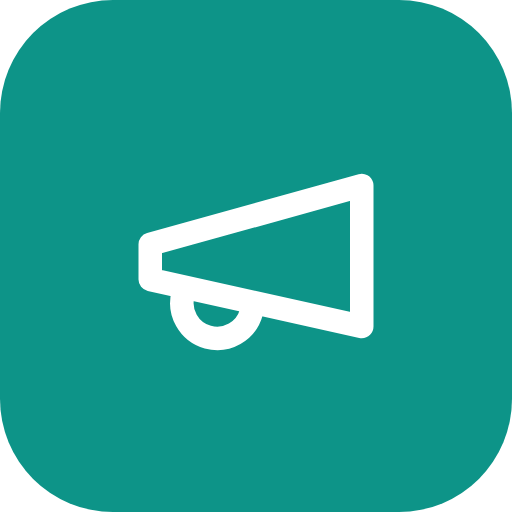
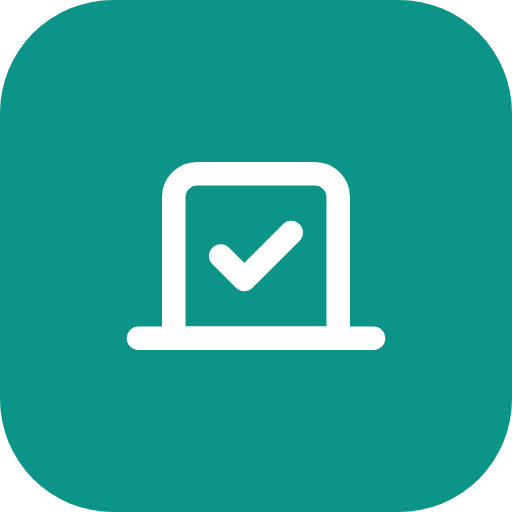
feat: 서비스명을 '재선거'로 변경하고 아이콘을 선거(투표) 아이콘으로 교체
- 서비스명 '광장' → '재선거': 메타 title, manifest(name/short_name),
  헤더 로고, 회원가입·로그인·온보딩·오프라인 문구
- 헤더 로고 아이콘 Megaphone → Vote(투표함+체크)
- PWA 아이콘(icon-192/512.png) 투표함 아이콘으로 재생성(gen-icons.mjs)
- favicon: src/app/icon.svg 신설, 기존 favicon.ico 제거
- 서비스워커 캐시명 reelection-v2로 변경(옛 PWA 캐시 무효화)

Changed region(s): [[0.25, 0.3125, 0.75, 0.6875]]

diff --git a/src/components/app-shell.tsx b/src/components/app-shell.tsx
@@ -7,7 +7,7 @@ import {
   Calendar,
   User,
   PenLine,
-  Megaphone,
+  Vote,
   Map as MapIcon,
   HeartHandshake,
   ShieldAlert,
@@ -57,9 +57,9 @@ export function AppShell({
       <aside className="fixed inset-y-0 left-0 z-30 hidden w-60 flex-col border-r border-border bg-background px-3 py-5 lg:flex">
         <Link href="/" className="mb-6 flex items-center gap-2 px-2">
           <span className="flex size-9 items-center justify-center rounded-md bg-primary text-primary-foreground">
-            <Megaphone className="size-5" />
+            <Vote className="size-5" />
           </span>
-          <span className="text-lg font-bold tracking-tight">광장</span>
+          <span className="text-lg font-bold tracking-tight">재선거</span>
         </Link>
 
         <nav className="flex flex-1 flex-col gap-1">
@@ -121,9 +121,9 @@ export function AppShell({
       <header className="sticky top-0 z-30 flex h-14 items-center justify-between border-b border-border bg-background/90 px-4 backdrop-blur lg:hidden">
         <Link href="/" className="flex items-center gap-2">
           <span className="flex size-8 items-center justify-center rounded-md bg-primary text-primary-foreground">
-            <Megaphone className="size-4" />
+            <Vote className="size-4" />
           </span>
-          <span className="text-base font-bold tracking-tight">광장</span>
+          <span className="text-base font-bold tracking-tight">재선거</span>
         </Link>
         <div className="flex items-center gap-1">
           <ThemeToggle />

diff --git a/src/app/onboarding/page.tsx b/src/app/onboarding/page.tsx
@@ -27,7 +27,7 @@ export default async function OnboardingPage() {
         <CardHeader>
           <CardTitle className="text-xl">닉네임 설정</CardTitle>
           <CardDescription>
-            광장에서 사용할 가명을 정해주세요. 실명 대신 닉네임만 노출됩니다.
+            재선거에서 사용할 가명을 정해주세요. 실명 대신 닉네임만 노출됩니다.
           </CardDescription>
         </CardHeader>
         <CardContent>

diff --git a/src/app/(auth)/login/page.tsx b/src/app/(auth)/login/page.tsx
@@ -21,7 +21,7 @@ export default async function LoginPage({
       <Card>
         <CardHeader>
           <CardTitle className="text-xl">로그인</CardTitle>
-          <CardDescription>광장에 다시 오신 것을 환영합니다.</CardDescription>
+          <CardDescription>재선거에 다시 오신 것을 환영합니다.</CardDescription>
         </CardHeader>
         <CardContent className="space-y-5">
           <AuthForm mode="login" next={next} />

diff --git a/src/app/(auth)/signup/page.tsx b/src/app/(auth)/signup/page.tsx
@@ -21,7 +21,7 @@ export default async function SignupPage({
       <Card>
         <CardHeader>
           <CardTitle className="text-xl">회원가입</CardTitle>
-          <CardDescription>이메일로 광장 계정을 만드세요.</CardDescription>
+          <CardDescription>이메일로 재선거 계정을 만드세요.</CardDescription>
         </CardHeader>
         <CardContent className="space-y-5">
           <AuthForm mode="signup" next={next} />

diff --git a/src/app/manifest.ts b/src/app/manifest.ts
@@ -2,8 +2,8 @@ import type { MetadataRoute } from "next";
 
 export default function manifest(): MetadataRoute.Manifest {
   return {
-    name: "광장 — 집회·시위 운영 플랫폼",
-    short_name: "광장",
+    name: "재선거 — 집회·시위 운영 플랫폼",
+    short_name: "재선거",
     description: "집회·시위를 기록하고 운영하는 공간",
     start_url: "/",
     display: "standalone",

diff --git a/src/app/layout.tsx b/src/app/layout.tsx
@@ -8,7 +8,7 @@ import { ServiceWorkerRegister } from "@/components/sw-register";
 import { getSessionUser } from "@/lib/auth";
 
 export const metadata: Metadata = {
-  title: "광장 — 집회·시위 운영 플랫폼",
+  title: "재선거 — 집회·시위 운영 플랫폼",
   description:
     "집회·시위를 기록하고 운영하는 공간. 글·사진·영상 공유, 현장 지원, 집회 일정.",
 };

diff --git a/public/sw.js b/public/sw.js
@@ -1,5 +1,5 @@
-// 광장 PWA 서비스워커 — 앱 셸 캐시 + 오프라인 폴백(네트워크 우선)
-const CACHE = "gwangjang-v1";
+// 재선거 PWA 서비스워커 — 앱 셸 캐시 + 오프라인 폴백(네트워크 우선)
+const CACHE = "reelection-v2";
 const SHELL = ["/", "/offline"];
 
 self.addEventListener("install", (event) => {

diff --git a/src/app/offline/page.tsx b/src/app/offline/page.tsx
@@ -1,6 +1,6 @@
 import { WifiOff } from "lucide-react";
 
-export const metadata = { title: "오프라인 — 광장" };
+export const metadata = { title: "오프라인 — 재선거" };
 
 export default function OfflinePage() {
   return (
